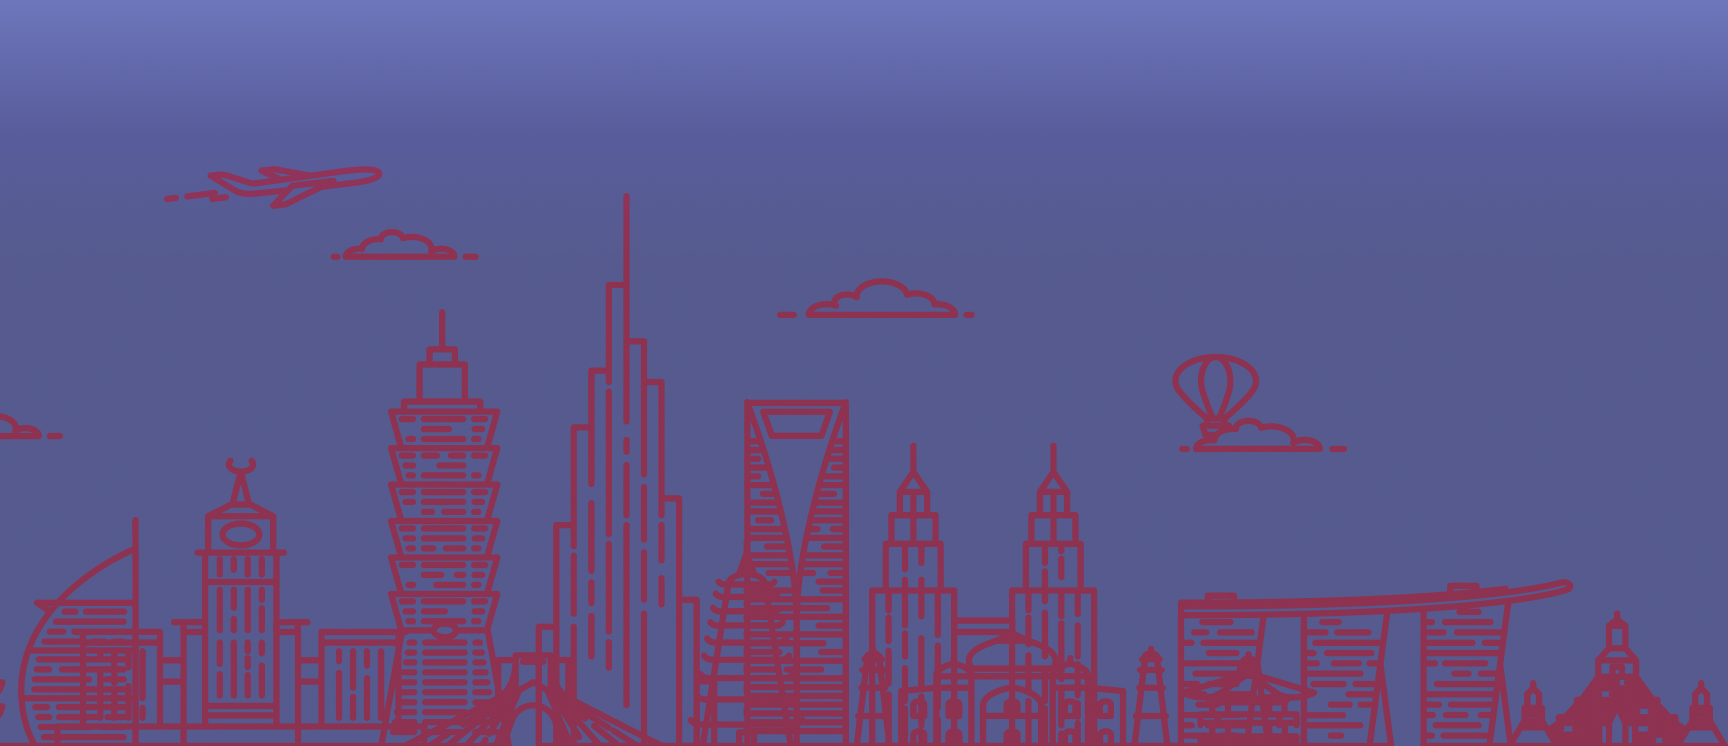
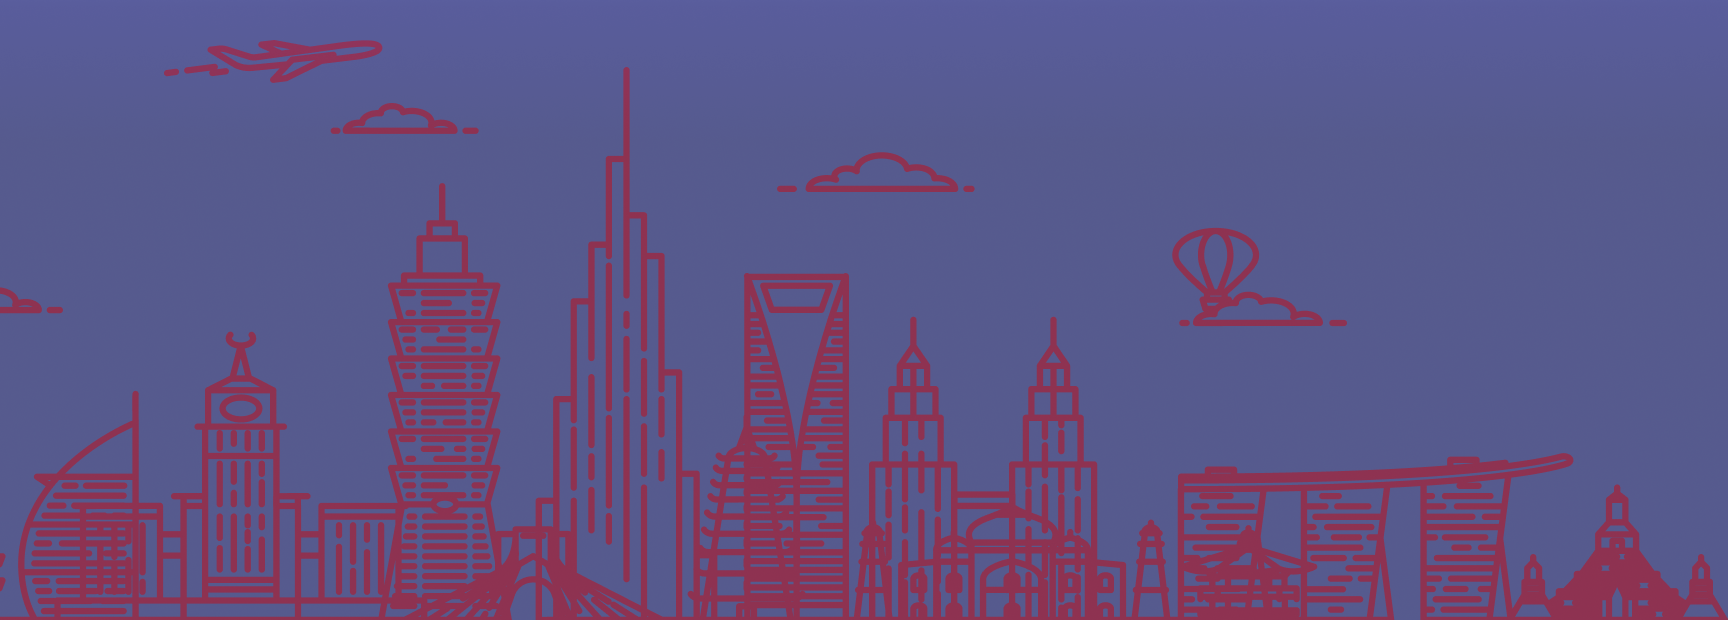
uppp

diff --git a/src/pages/Categories/Categories.js b/src/pages/Categories/Categories.js
@@ -1,0 +1,143 @@
+import React from 'react';
+import Nav from '../../Nav/Nav';
+import Footer from '../../Nav/Footer';
+import { Link } from 'react-router-dom';
+import "./Categories.css";
+
+const categories = [
+    {
+      name: "MultiMedia",
+      image: "pics/pc 1.png",
+      link: "/multimedia",
+      subcategories: [
+        ["Phones", "Personal computer", "Tablet", "Smartphones"],
+        ["Laptop", "Phone Accessories", "Headphones", "Tablet Parts"],
+        ["Phones", "Personal computer", "Tablet", "Smartphones"],
+        ["Phones", "Personal computer", "Tablet", "Smartphones"]
+      ]
+    },
+    {
+      name: "Household Appliances",
+      image: "pics/image 7.png",
+      link: "/multimedia",
+      subcategories: [
+        ["Refrigerators", "Microwaves", "Dishwashers", "Cooktops"],
+        ["Dryers", "Toasters & Toaster Ovens", "Blenders & Mixers", "Air Fryers"],
+        ["Upright Vacuums", "Robot Vacuums", "Carpet Cleaners"]
+      ]
+    },
+    {
+      name: "Sport",
+      image: "pics/image 2.png",
+      link: "/multimedia",
+      subcategories: [
+        ["Sport clothes", "Dumbbell set", "Treadmill", "Traction bar"],
+        ["Protein", "Cotton", "Leather", "Shoes"],
+        ["Football (Soccer)", "Apparel (Jerseys, Shorts, etc.)", "Rackets, Bats, & Sticks", "Sports Accessories"]
+      ]
+    },
+    {
+      name: "Pets",
+      image: "pics/image 5.png",
+      link: "/multimedia",
+      subcategories: [
+        ["Dogs", "Cats", "Birds", "Fish"],
+        ["Beds & Blankets", "Crates & Carriers", "Litter & Waste Management", "Training Tools"],
+        ["Clothing & Costumes", "Pet Technology", "Toys & Enrichment"]
+      ]
+    },
+    {
+      name: "Home And Garden",
+      image: "pics/image 6.png",
+      link: "/multimedia",
+      subcategories: [
+        ["Home", "Villa", "Studio", "Apartment"],
+        ["Cottage", "Duplex", "Leather", "Plants & Flowers"],
+        ["Gardening Tools & Supplies", "Pots & Planters", "Soil & Fertilizers"]
+      ]
+    },
+    {
+      name: "Clothes",
+      image: "pics/image 4.png",
+      link: "/multimedia",
+      subcategories: [
+        ["Women's Clothing", "Men's Clothing", "Kids Clothing"],
+        ["Shoes", "Cotton", "Caftan"],
+        ["Leather", "Accessories"]
+      ]
+    },
+    {
+      name: "Work And Study",
+      image: "pics/image 3.png",
+      link: "/multimedia",
+      subcategories: [
+        ["Notebooks", "Bags", "Marker"],
+        ["Pencils", "Office", "Backpacks"],
+        ["Files"]
+      ]
+    },
+    {
+      name: "Vehicles",
+      image: "pics/image 1.png",
+      link: "/multimedia",
+      subcategories: [
+        ["Cars", "Bicycles", "Trucks", "Buses"],
+        ["Air Bike", "Mobility Scooters", "Motorcycles"],
+        ["Van", "Electric Scooter"]
+      ]
+    }
+  ];
+  
+export default function Categories() {
+  return (
+    <div>
+      <div className='post'>
+        <img src="pics/post1.png" alt="" className='img1' />
+        <div className='blur'>
+          <Nav />
+          <div className="title">
+            <h1 id='h11'>All Categories</h1>
+            <Link to="/" className='aa'>Home ---</Link> 
+            <Link to='/categories' className='aa'>All Categories</Link>
+          </div>
+        </div>
+      </div>
+      
+      <div id="container">
+        {categories.map((category, index) => (
+          <div className="cats" key={index}>
+            <div id="titre">
+              <img src={category.image} alt={category.name} />
+              <Link 
+                to={category.link} 
+                style={{
+                  color: "#020053",
+                  fontSize: "40px",
+                  fontFamily: "Abhaya Libre SemiBold",
+                  marginLeft: "2%",
+                  marginTop: "1%",
+                  textDecoration:"none",
+                }}
+              >
+                {category.name}
+              </Link>
+            </div>
+            <div id="links" style={{ display: "flex" }}>
+              {category.subcategories.map((subList, subIndex) => (
+                <ul key={subIndex} style={{ listStyle: "none", marginLeft: "55px" }}>
+                  {subList.map((sub, subItemIndex) => (
+                    <li key={subItemIndex}>
+                      <Link to="#" className="souscat">{sub}</Link>
+                    </li>
+                  ))}
+                </ul>
+              ))}
+            </div>
+          </div>
+        ))}
+      </div>
+
+      <Footer />
+    </div>
+  );
+}

diff --git a/src/App.js b/src/App.js
@@ -1,4 +1,3 @@
-
 import './App.css';
 import { Routes, Route, useLocation } from 'react-router-dom';
 import HomePage from './pages/Home/Homepage';
@@ -7,11 +6,11 @@ import Nav from './Nav/Nav'
 import Footer from './Nav/Footer';
 import Multimedia from './pages/Multimedia/Multimedia';
 import { useEffect } from 'react';
+import Categories from './pages/Categories/Categories';
 export default  function App() {
   const location = useLocation();
   useEffect(() => {
-    console.log("Current Path:", location.pathname); // Debugging line
-  
+    console.log("Current Path:", location.pathname);
     if (location.pathname === "/listing") {
       document.body.classList.add("listing-body");
       document.body.classList.remove("home-body");
@@ -23,16 +22,14 @@ export default  function App() {
   }, [location]);
   return (
     <div className="App">
-      {location.pathname !== '/' &&location.pathname !== '/listing'&& <Nav />}
+      {location.pathname !== '/' &&location.pathname !== '/listing'&&location.pathname !== '/categories'&& <Nav />}
       <Routes>
         <Route path="/" element={<HomePage />} />
-         <Route path="/listing" element={<Listing/>} />
-       {/* <Route path="/multimedia" element={<Multimedia/>} />  */}
-
+        <Route path="/listing" element={<Listing/>} />
+        <Route path="/multimedia" element={<Multimedia/>} /> 
+        <Route path="/categories" element={<Categories/>} /> 
       </Routes>
-      {location.pathname !== '/'&&location.pathname !== '/listing'&& <Footer/>}
-      
+      {location.pathname !== '/'&&location.pathname !== '/listing'&&location.pathname !== '/categories'&& <Footer/>}
     </div>
   );
 }
-

diff --git a/src/pages/Listing/Listing.js b/src/pages/Listing/Listing.js
@@ -5,6 +5,7 @@ import Cards from './Cards';  // Assuming you have a Cards component
 import Sidebar from './Sidebar';  // Assuming you have a Sidebar component
 import Nav from '../../Nav/Nav';
 import Footer from '../../Nav/Footer';
+import { Link } from 'react-router-dom';
 export default function Listing() {
     const [cards, setCards] = useState([]); // Initialize as an empty array
 
@@ -25,17 +26,15 @@ export default function Listing() {
     return (
         <div>
             <div className='post'>
-                <img src="./images/photoHome.png" alt="" className='img1'/>
+                <img src="pics/post1.png" alt="" className='img1'/>
                 <div className='blur'>
                     <Nav />
                     <div className="title">
                         <h1 id='h11'>ListingProduct</h1>
-                        <a href="/" className='aa'>Home</a> ---
-                        <a href="listing.html" className='aa'>ListingProduct</a>
+                        <Link to="/" className='aa'>Home ---</Link>
+                        <Link to='/listing' className='aa'>ListingProduct</Link>
                     </div>
                 </div>
-
-            
             </div>
                 <div>
                 <Sidebar/>

diff --git a/src/pages/Listing/Listing.css b/src/pages/Listing/Listing.css
@@ -2,42 +2,38 @@
 .post{
     height: 650px;
     width: 100%;
-    background-color: #7B84B4;
-    
 }
 .img1{
-    position: absolute;
-    width: 57%;
-    left: 40%;
-    top: 10%; 
+    width: 100%;
+    height: 550px;
 }
 .blur{
     height: 650px;
     width: 100%;
     position: absolute;
     top: 0;
-    background: linear-gradient(#0501318d, #21178f72,#5d68ce46);
 }
 #h11{
     color:#F8E8DA;
-    font-size: 67px;
+    font-size: 5.5rem;
     font-family: Abhaya Libre SemiBold;
     font-weight: bold;
 }
 .aa{
     text-decoration: none;
-    color: black;
-    font-size: 20px;
+    font-family: Abhaya Libre SemiBold;
+    color: #020053;
+    font-size: 2.5rem;
     margin-left: 6px;
 }
 .aa:hover{
-    color: black;
+    color: #020053;
 }
 .title{
     text-align:justify;
     position: relative;
-    top: 32%;
-    margin-left: 5%;
+    top: 10%;
+    margin-left: 8%;
 }
 #offer{
     width: 20%;

diff --git a/src/pages/Categories/Categories.css b/src/pages/Categories/Categories.css
@@ -1,0 +1,33 @@
+.souscat{
+    text-decoration: none;
+    color: #020053;
+    font-size: 40px;
+    font-family: Abhaya Libre SemiBold;
+    margin-left: 6px;
+}
+.souscat:hover{color: #020053;}
+.cats #titre{
+    display: flex;
+}
+.cats{
+    box-shadow: rgba(119, 119, 130, 0.699) 0px 7px 29px 0px;
+    width: 90%;
+    margin-left: 6%;
+    margin-top: 5%;
+    padding: 2%;
+    border-radius: 30px;
+    transition: all 0.5s ease-in;
+}
+.cats:hover{
+    transform: scale(1.03);
+    box-shadow: rgba(0, 0, 0, 0.3) 0px 10px 40px 0px;
+    cursor: pointer;
+}
+.souscat{
+    color: #010053b3;
+    font-size: 25px;
+    font-family: Abhaya Libre SemiBold;
+}
+#links{
+    margin-left: 5%;
+}

diff --git a/src/pages/Home/Home.css b/src/pages/Home/Home.css
@@ -9,7 +9,7 @@
   color: #E31616;
 }
 #search{
-  margin-top: 24%;
+  margin-top: 17%;
 }
 #searchbar{
   background-color: #e31616aa;
@@ -67,7 +67,7 @@
 .card {
   position: relative;
   border-radius: 15px;
-  width: 90%;
+  width: 85%;
   overflow: hidden;
   background-color: #fff;
   box-shadow: 0 4px 8px rgba(41, 39, 39, 0.1);
@@ -240,17 +240,19 @@
   #imgs{
     background-size: cover;
     width: 100.5%;
-    height: 800px;
   }
   #float{
     width: 100.5%;
   }
   #search{
-    margin-top: 28%;
-    padding-left: 15%;
+    margin-top: 20%;
+    width: max-content;
+    margin-left: -5%;
   }
   .imgcat{
     width: 180px;
   }
-  
+  .card{
+    width: 100%;
+  }
 } 

diff --git a/src/Nav/Footer.css b/src/Nav/Footer.css
@@ -6,17 +6,18 @@
   }
   #imgfooter{
     width: 100%;
-    height: 800px;
+    height: 700px;
   }
   #floatf{
     position: absolute;
     width: 100%;
-    padding: 30px;
+    padding: 0px 50px;
+    height: 700px;
   }
   .subscribe-section {
     display: flex;
     justify-content: center;
-    padding-top: 8%;
+    padding-top: 5%;
   }
   
   #textSub {

diff --git a/src/pages/Home/Homepage.js b/src/pages/Home/Homepage.js
@@ -58,7 +58,7 @@ const HomePage = () => {
   ];
   return (
     <div id="Post">
-      <img src="pics/post2.png" width={1519} height={800} id='imgs' alt="" />
+      <img src="pics/post2.png" width={1519} height={700} id='imgs' alt="" />
       <div id='float'>
         <Nav />
         <div id="search">
